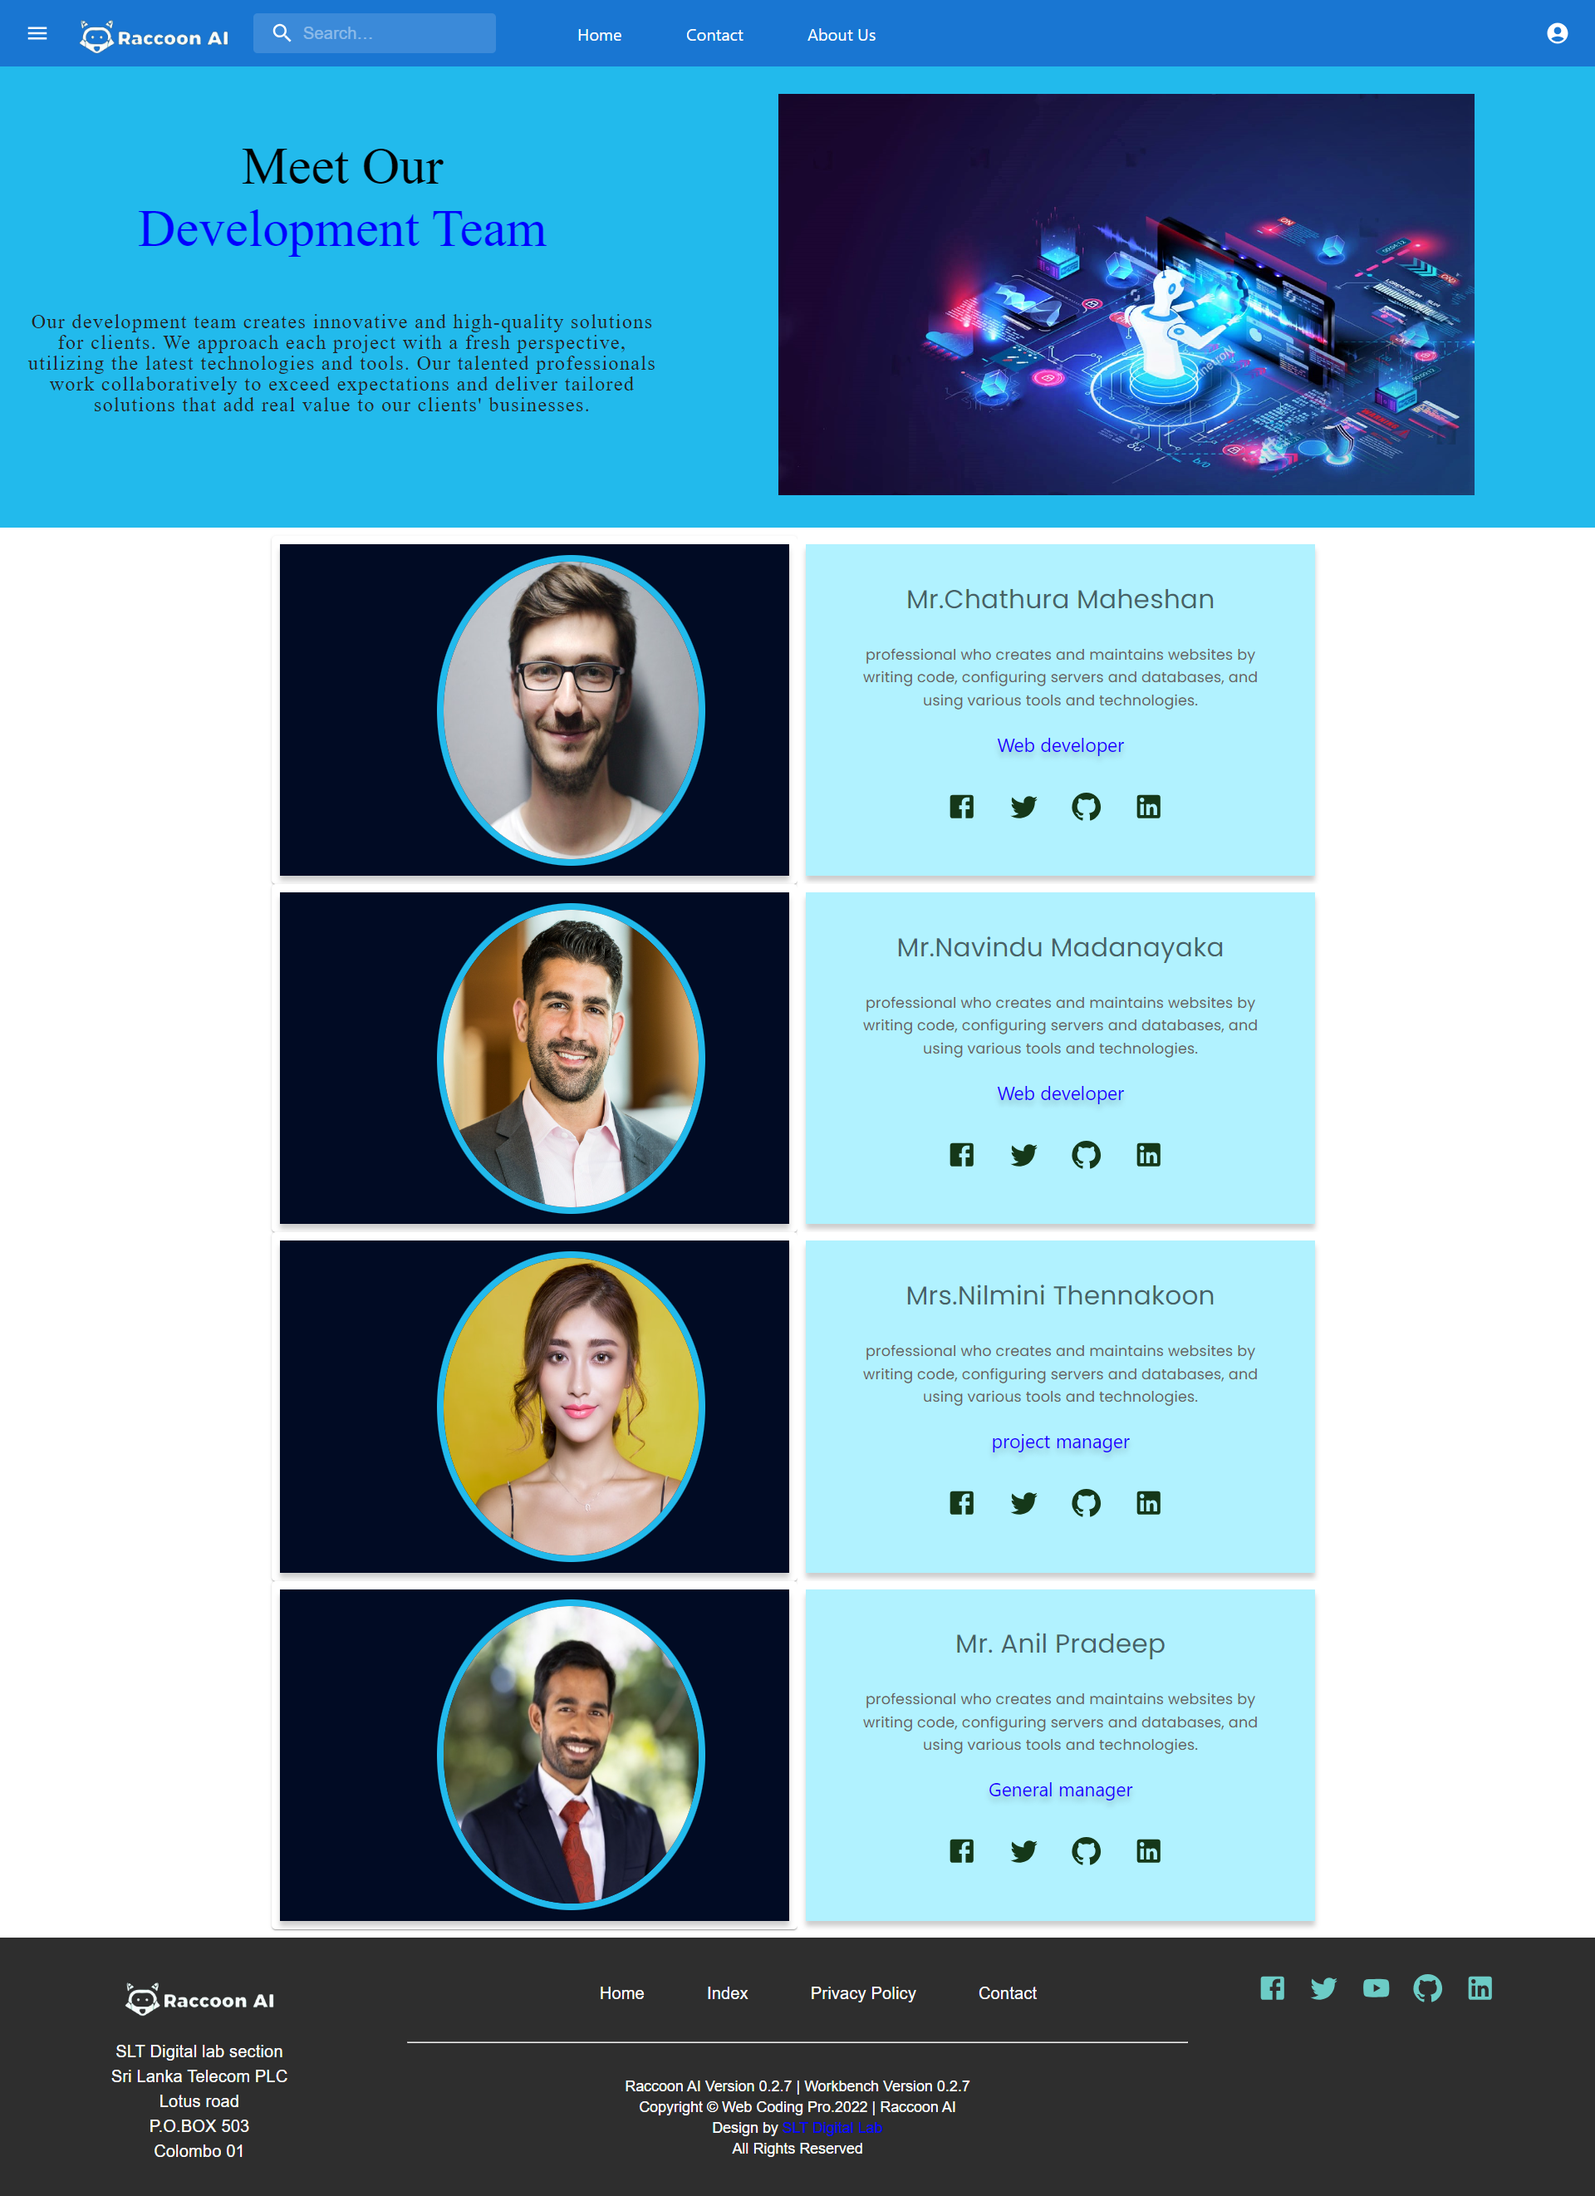
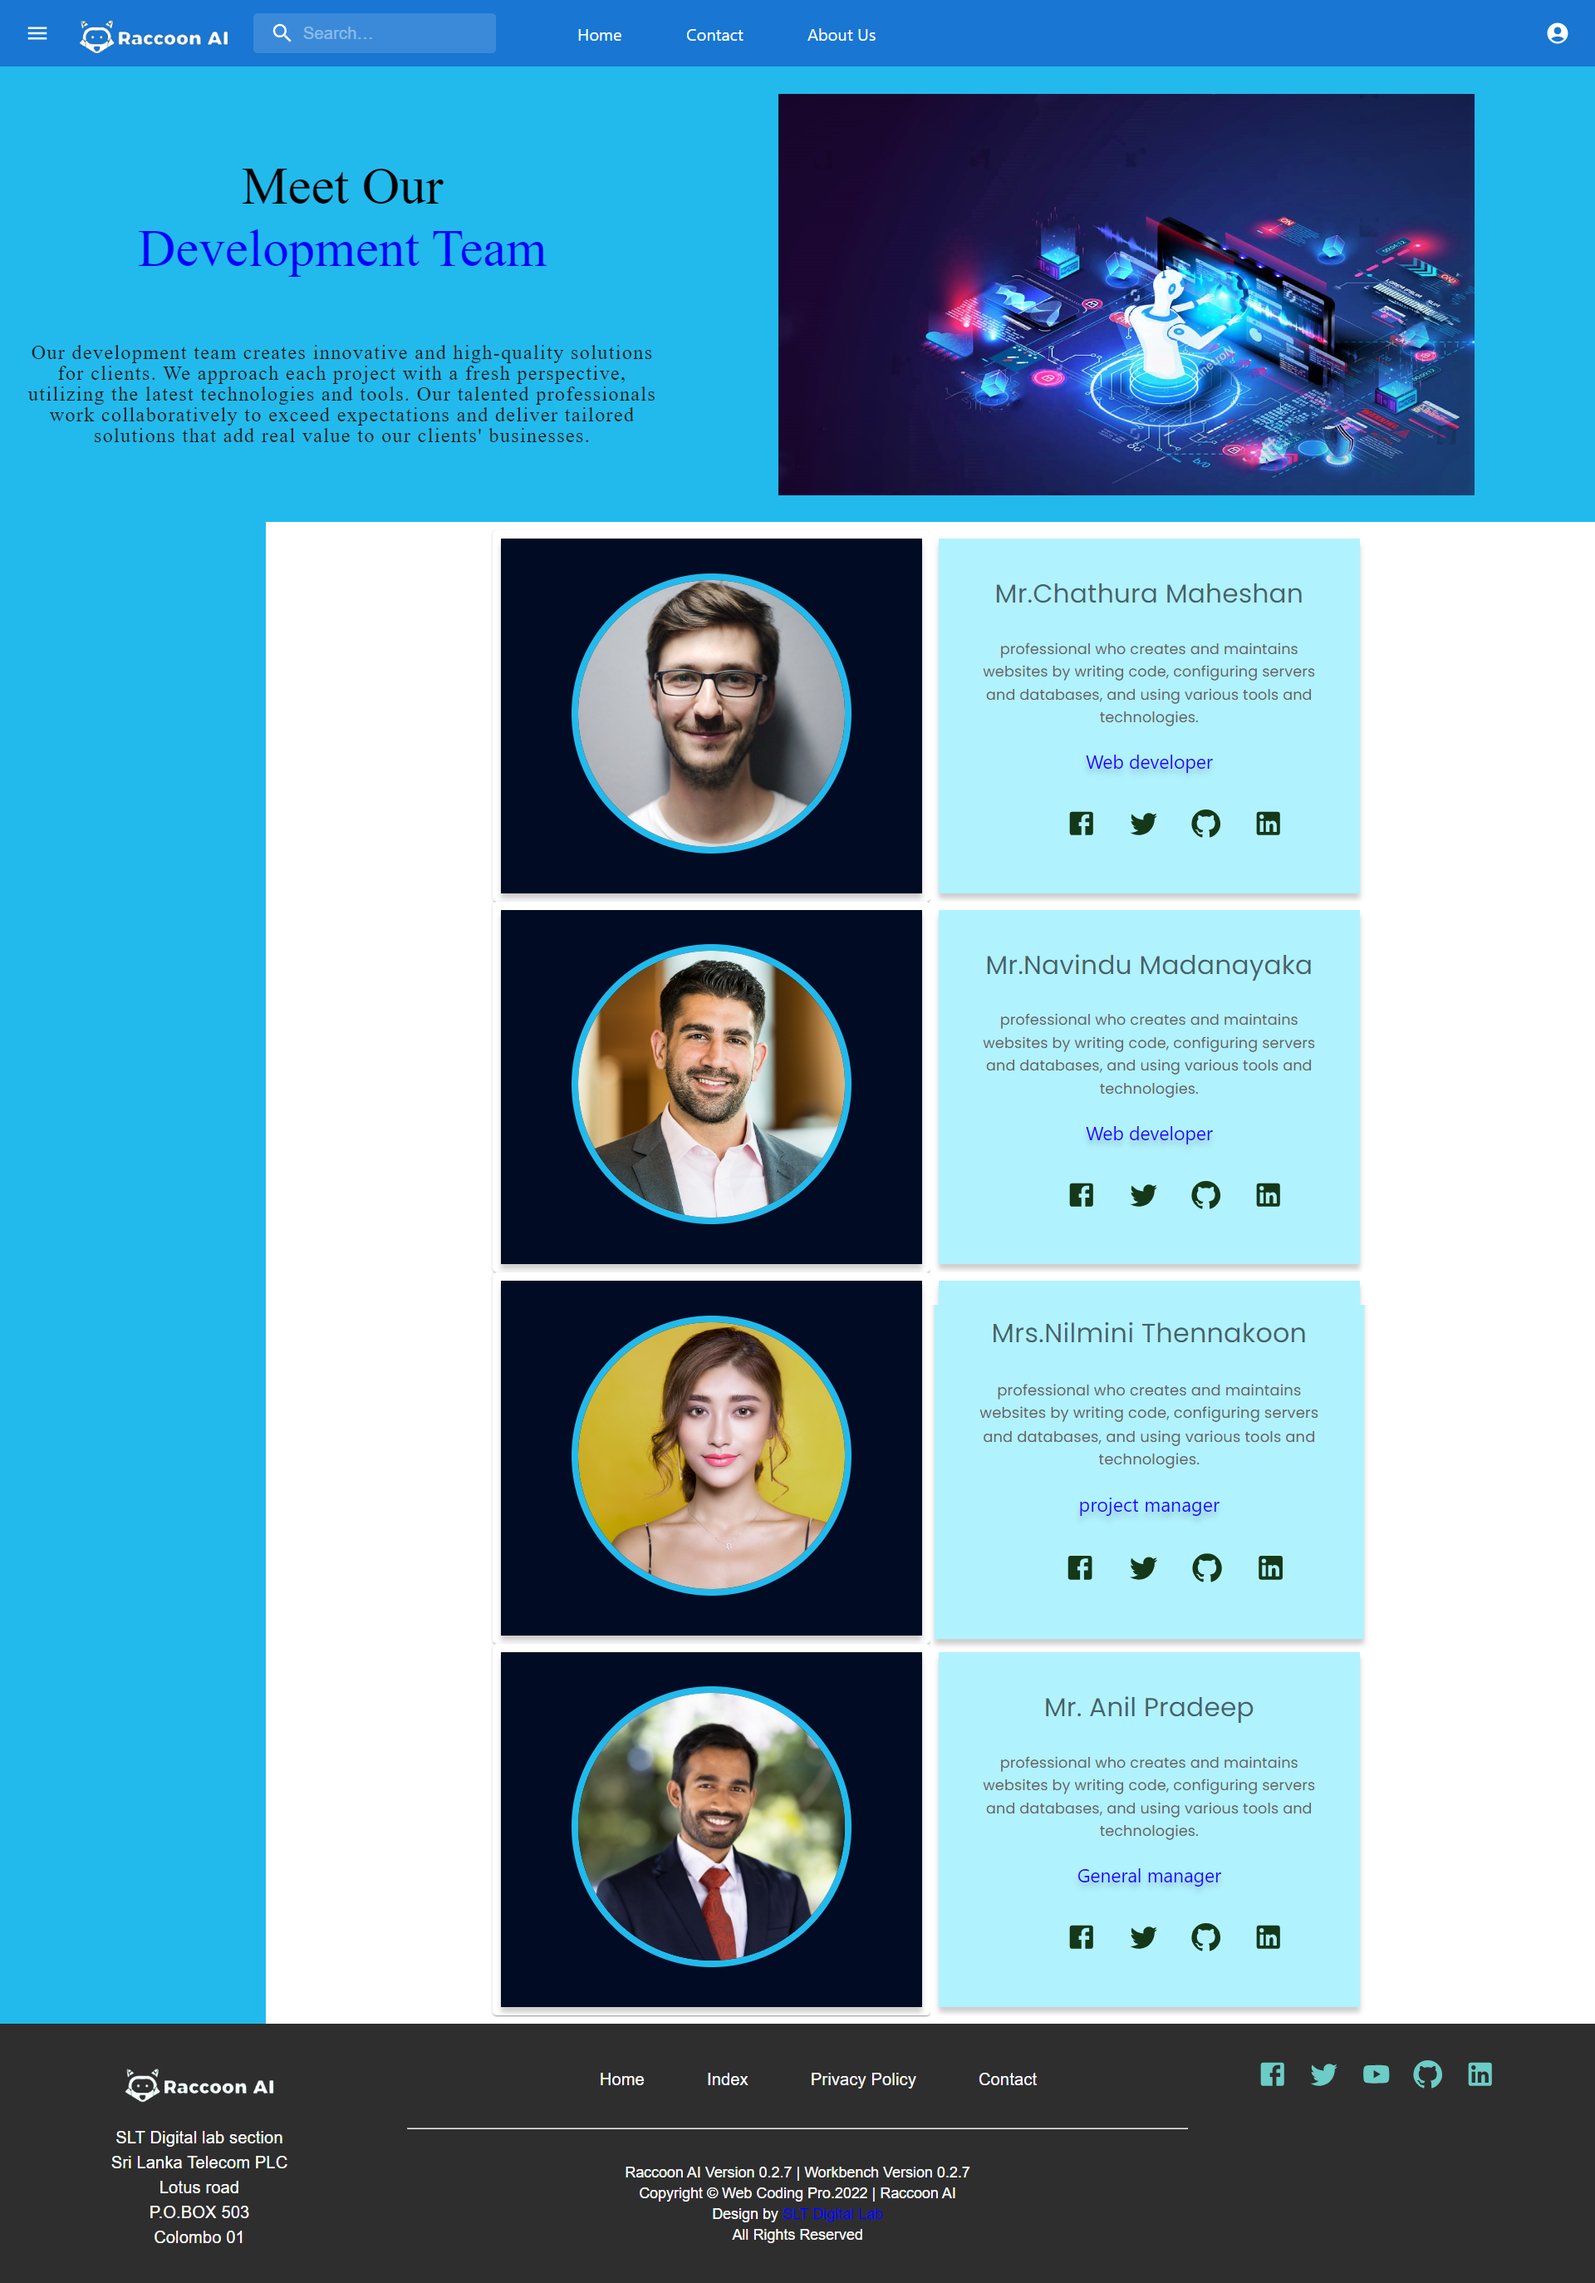
version 09

diff --git a/src/components/UProject/uproject.js b/src/components/UProject/uproject.js
@@ -88,18 +88,18 @@ const Uproject = () => {
           </div> 
         </div>
 
-        <div class="section02">
+        <div class="section03">
           <div class="text1">
             <div>MERN Stack</div>
           </div>
           <div class="text2">
-            <div>University Project</div>
+            <div>Internship Project</div>
           </div>
           <div class="text3">
             <div>
               This is the Racoon AI project, I have being devloped during my internship periode.I led the development this web application using 
               the MERN stack, incorporating the Material UI library. I was responsible for the majority of the frontend 
- development within the project.
+              development within the project.
  
             </div>
           </div>
@@ -110,6 +110,7 @@ const Uproject = () => {
                 <img class="image-item2" src="/images/r1.png" alt="j1"></img>
                 <img class="image-item2" src="/images/r2.png" alt="j1"></img>
                 <img class="image-item2" src="/images/r3.png" alt="j1"></img>
+                <img class="image-item2" src="/images/r7.png" alt="j1"></img>
                 <img class="image-item2" src="/images/r4.png" alt="j1"></img>
                 <img class="image-item2" src="/images/r5.png" alt="j1"></img>
                 <img class="image-item2" src="/images/r6.png" alt="j1"></img>

diff --git a/src/components/UProject/uproject.css b/src/components/UProject/uproject.css
@@ -21,6 +21,13 @@
      
 }
 
+.section03{
+    margin-top: -9%;
+    margin-bottom: 15%;
+    
+     
+}
+
 .text1{
     text-align: center;
     font-family: sans-serif;

diff --git a/src/components/services/services.css b/src/components/services/services.css
@@ -5,7 +5,7 @@
 
 .container{
     padding: 10px 10%;
-    background-color: blue;
+    
 }
 
 
